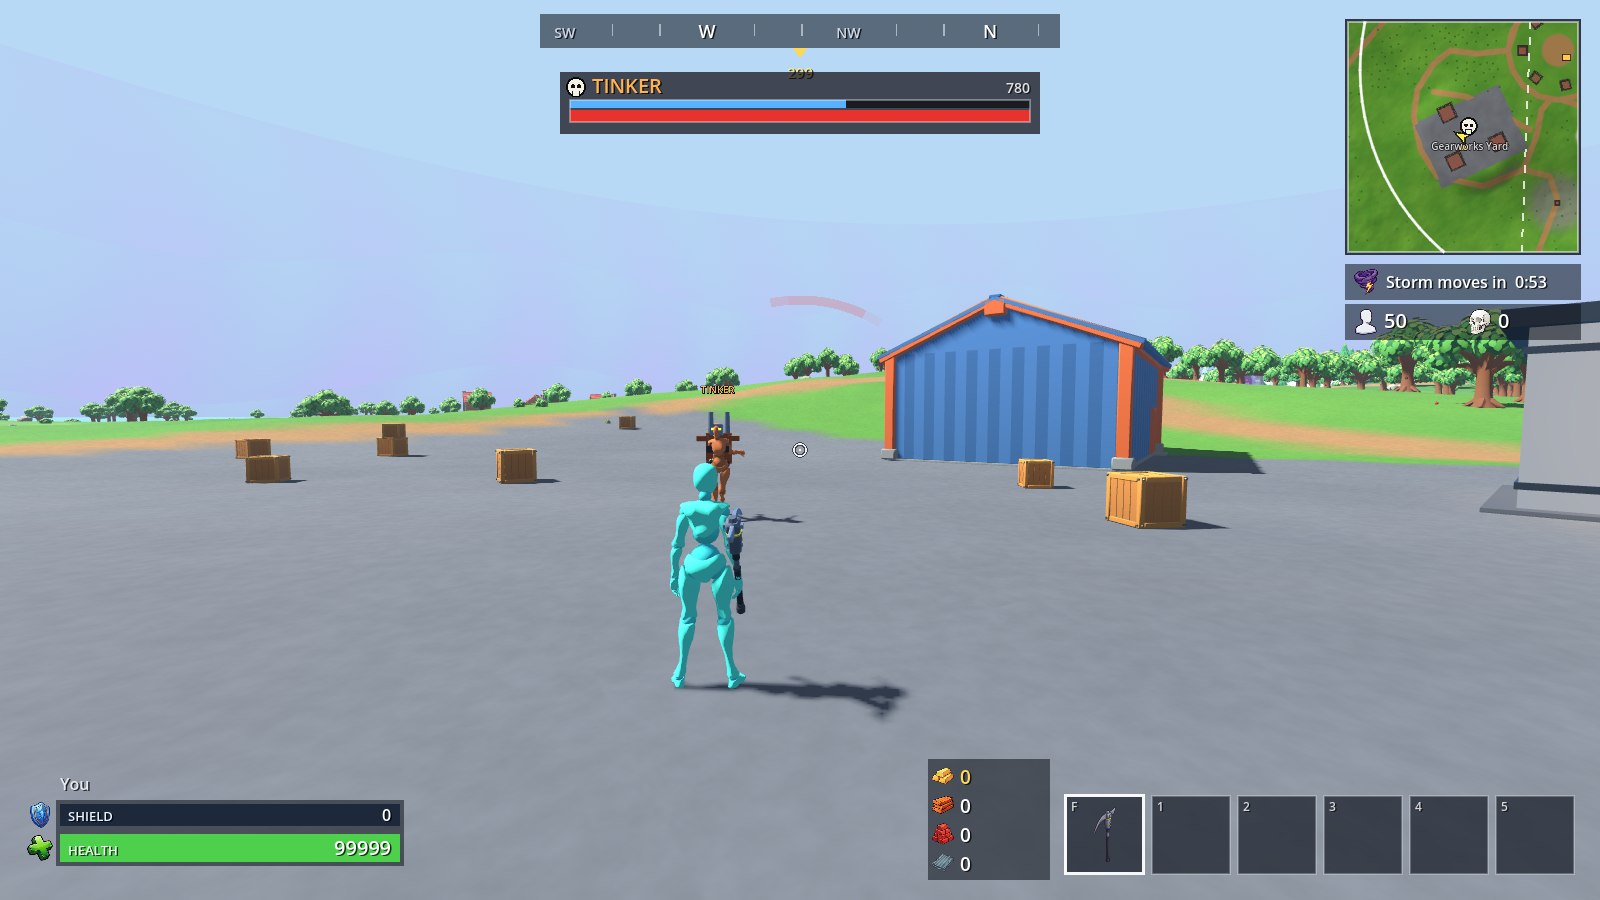
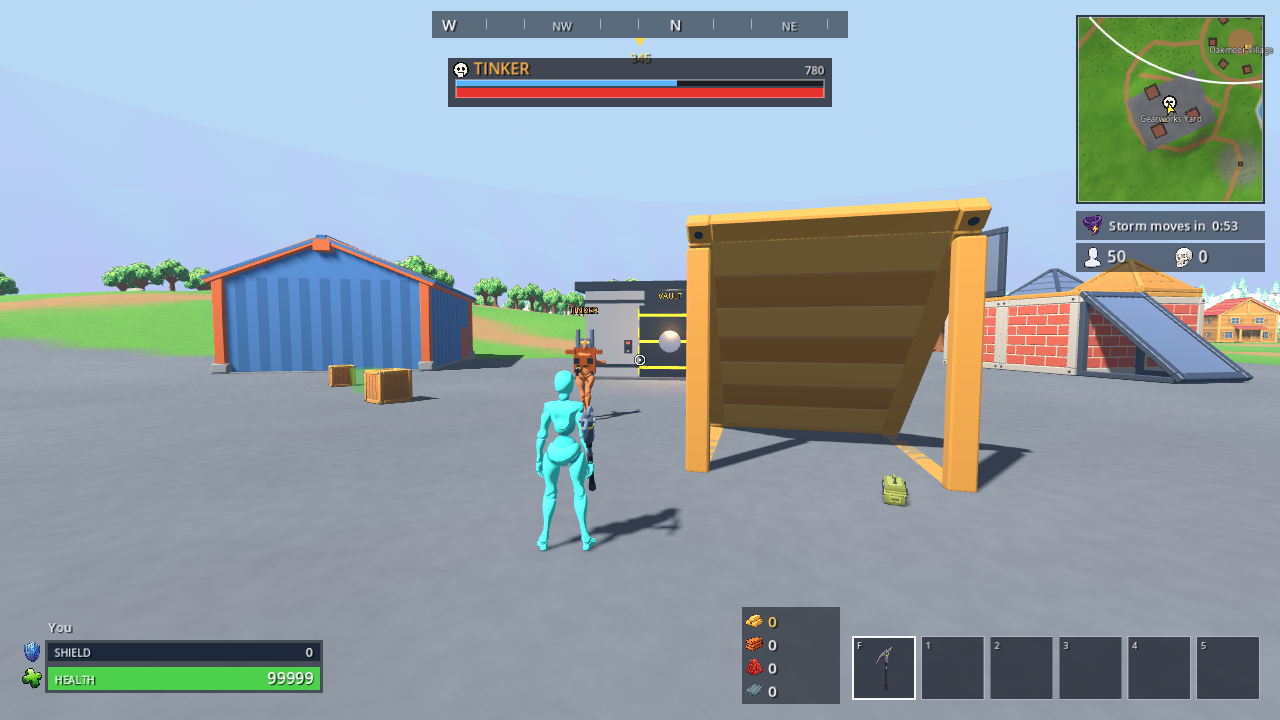
Docs and screenshots: bosses, vaults, mythic weapons, named places, sprint and hurdle, headshots
Claude-Session: https://claude.ai/code/session_0133zWQwvTPSkkXzjH6sFxTm

diff --git a/runs/claude/test3/README.md b/runs/claude/test3/README.md
@@ -20,10 +20,14 @@ runs/claude/test3/
 | **Warm-up** | A 20 s warm-up on the island before the bus: no damage, looting or building. It can be skipped in Settings. |
 | **Drop** | A blimp crosses the island for 50 s. Skydive, then **E** deploys the glider (an on-screen prompt shows the key). |
 | **Island** | 800 m, chunked terrain, rivers, towns, mesas, snow in the north and desert in the south. Minimap (900 m) and a full map on **M**. |
+| **Bosses and vaults** | Three bosses guard their own named locations: **Weaver** (web-slinger) at Frostpeak, **Ravage** (tendril creature) at Sandbar Depot, **Tinker** (mech pilot) at Gearworks Yard. Each has a boss health bar and drops its mythic weapons, gold and a **keycard** that opens the vault beside the lair, which holds three golden chests of top loot. |
+| **Mythic weapons** | Weaver's Web Shooters (swing on web lines), Ravage's Grasp (yank and slam an enemy, or pull yourself to a wall), Tinker's Charge Shotgun (hold to charge, up to 2x damage) and Tinker's Shockwave Launcher (launches players, wrecks builds). They only come from bosses. |
+| **Named places** | Ten locations named on both maps, with an "ENTERING" banner as you walk in, and skulls on the map where bosses are alive. |
 | **Weapons** | Nine guns with five rarities: pistol, pump and tactical shotguns, SMG, assault, burst and hunting rifles, bolt sniper, rocket launcher. Also grenades and launch pads. Reloads are animated (the magazine comes out). First shots are accurate after a short rest. |
 | **Heals** | Bandages, med kit, healing drink, small and big shields, hydro juice (health and shield), mega flask. |
 | **Building** | Wall, floor, stairs and cone in wood, brick or metal, with edits and weak points. The material switches automatically to one you have. Every structure, houses included, can be farmed and collapses, and the loot inside drops to the ground. |
-| **Movement** | Sprint, crouch, slide, mantle, swim, step-up onto ledges, zip lines (8), rifts (10) and launch pads. |
+| **Combat feedback** | Damage numbers on every hit. The crosshair turns red on an enemy's head, and headshots show yellow numbers and a HEADSHOT tag. |
+| **Movement** | Tactical sprint (hold Shift: faster, gun lowered), hurdle low fences and crates at a run, crouch, slide, mantle, swim, step-up onto ledges, zip lines (8), rifts (10) and launch pads. |
 | **Gold** | A fourth collectible, dropped by floor loot, chests and supply drops. |
 | **Upgrade benches** | Raise a weapon's rarity for 100 / 150 / 200 / 250 gold. |
 | **NPCs** | Six characters at points of interest. Talk to one (**E**) and hire them for gold, and they fight beside you. |
@@ -40,6 +44,8 @@ runs/claude/test3/
 |---|---|
 | Move / jump | WASD / Space |
 | Walk (you run by default) | hold right mouse |
+| Tactical sprint | hold Shift |
+| Hurdle / mantle | Space while running at a low obstacle / a ledge |
 | Crouch / slide | Ctrl |
 | Fire / aim | left / right mouse |
 | Weapon slots | 1–5, mouse wheel |
@@ -86,8 +92,8 @@ godot --headless --path game -s scripts/flowtest.gd
 | Suite | Checks | Covers |
 |---|---|---|
 | buildtest | 45 | Placing, editing, collapse, harvesting, explosions |
-| movetest | 31 | Crouch, slide, mantle, swim, step-up |
-| eventtest | 83 | Consumables, pads, zips, rifts, supply drops, spare ammo, auto material, walking out of houses, house collapse and loot fall, gold, benches, reloads, hiring |
+| movetest | 45 | Crouch, slide, mantle, swim, step-up, tactical sprint, hurdle |
+| eventtest | 151 | Consumables, pads, zips, rifts, supply drops, spare ammo, auto material, walking out of houses, house collapse and loot fall, gold, benches, reloads, hiring, mythic weapons, bosses, keycards, vaults, named places |
 | invtest | 22 | Inventory screen |
 | flowtest | 22 | Menu → lobby → warm-up → match → summary → play again → pause → leave |
 

diff --git a/README.md b/README.md
@@ -17,7 +17,7 @@ Open `index.html` in a browser. `README.txt` is the original note from the folde
 ## Godot replication (`runs/claude/`)
 
 This repo also contains a replication of the challenge, built in Godot 4.5 instead of Unity. The Stage 3 game (50 players,
-an island with snow and desert biomes, building, gold, upgrade benches and NPCs for hire) is in `runs/claude/test3/`.
+an island with snow and desert biomes, building, gold, upgrade benches, NPCs for hire, three bosses with keycard vaults and mythic weapons) is in `runs/claude/test3/`.
 Its README covers the features, controls and tests. Ready-to-play builds are `builds/IslandRoyale-windows.zip` and
 `builds/IslandRoyale-android.apk`.
 
